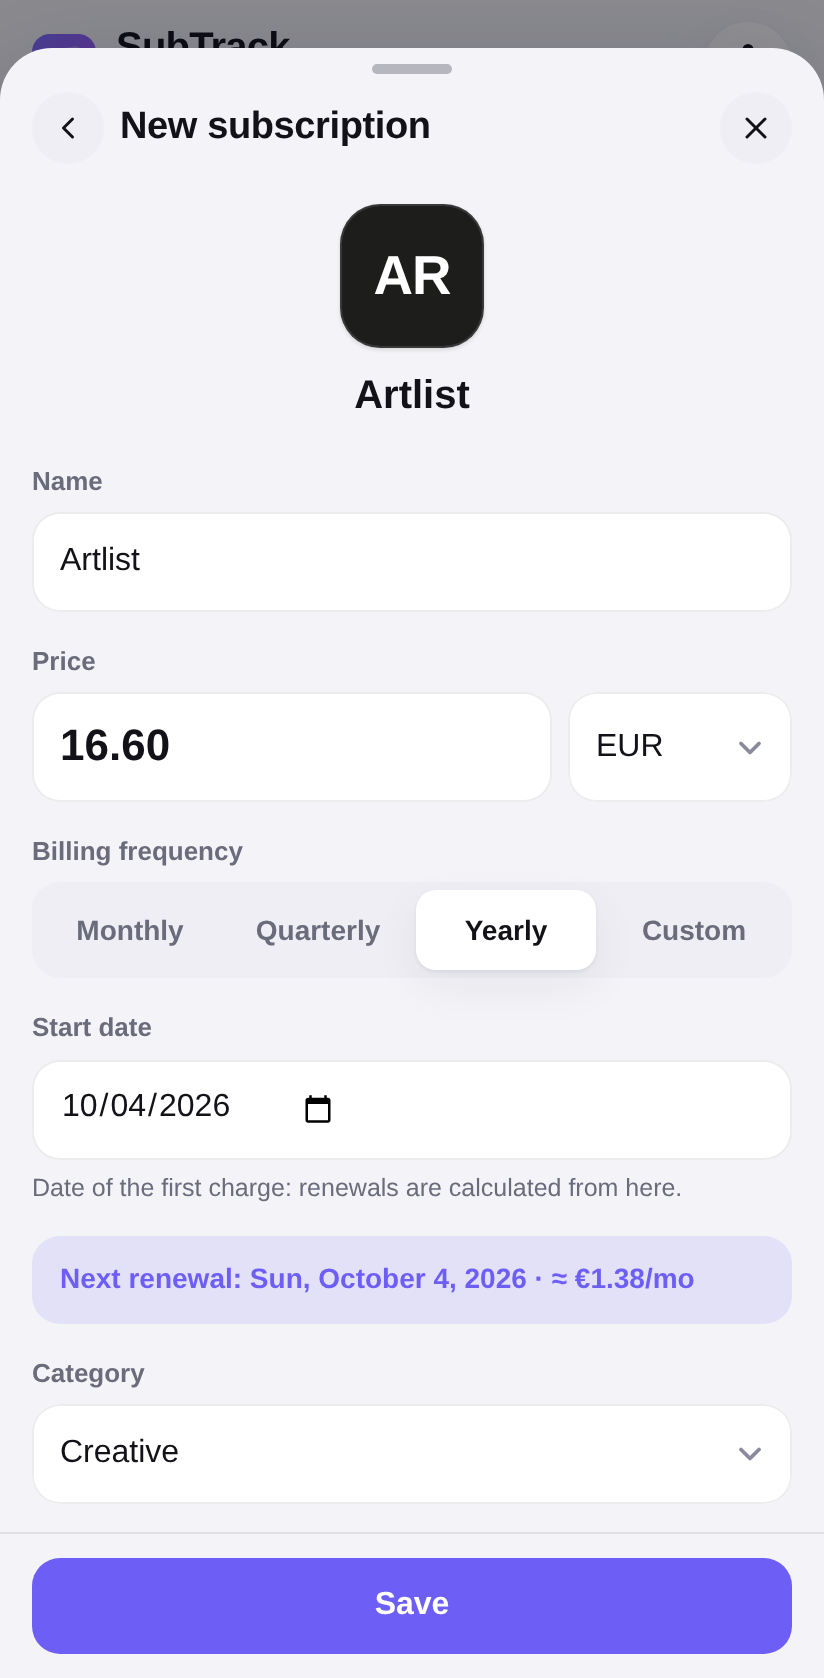
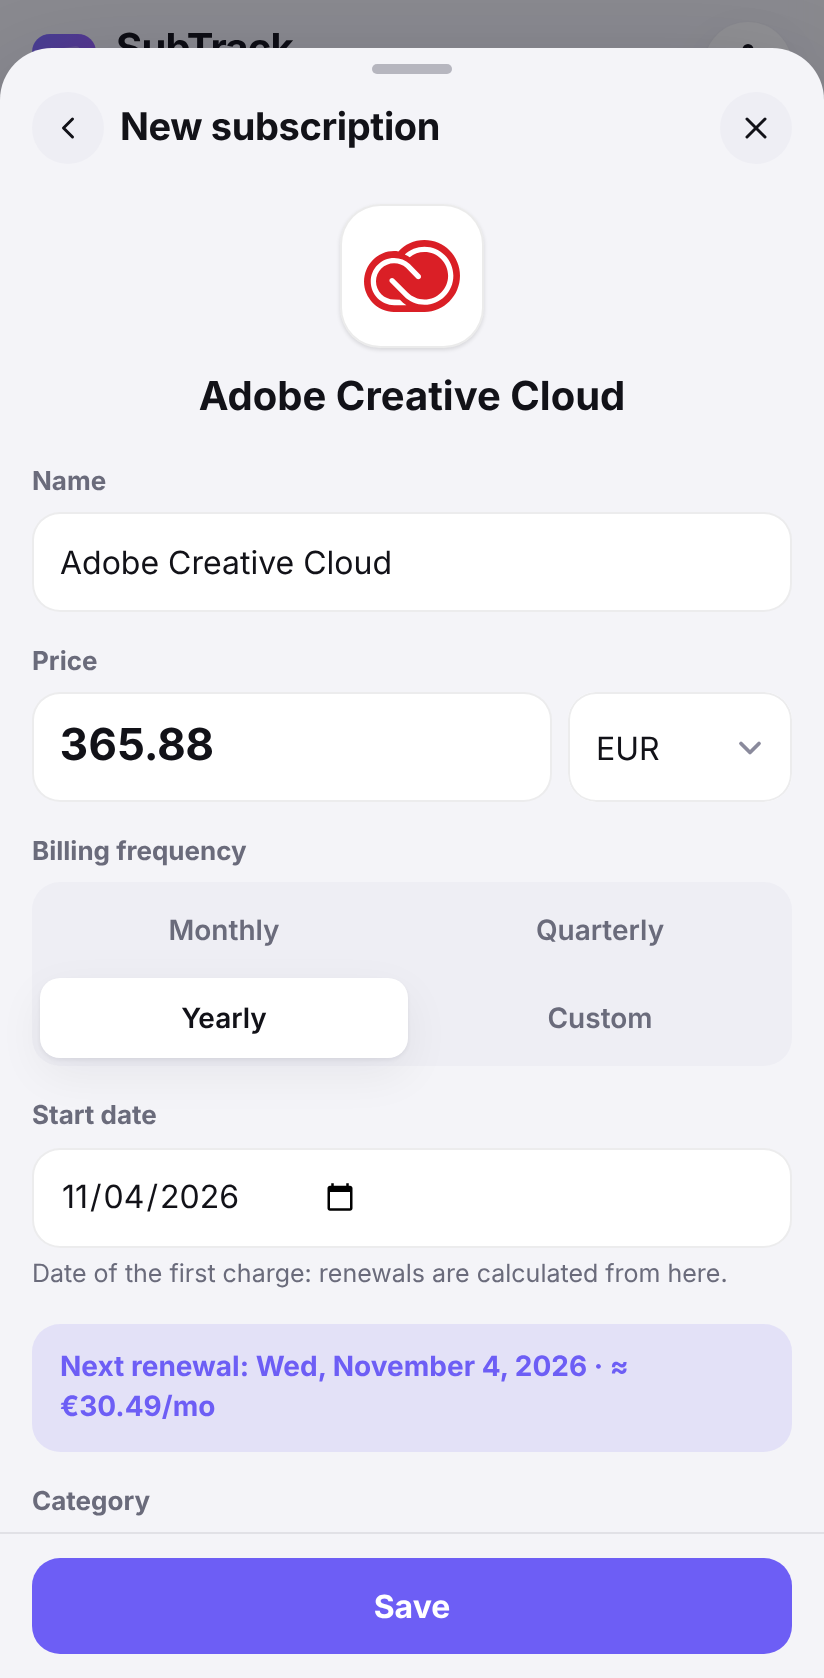
docs: refresh form and settings screenshots, add Italian versions
- form.png now shows a catalogue service with its new brand logo (Adobe
  Creative Cloud) and the current two-row frequency selector.
- settings.png is retaken on the current version.
- README.it gets the same pair in Italian (docs/screenshots/it/), with
  Italian date and number formats.

Claude-Session: https://claude.ai/code/session_01Mdn3BHeJ9s2a8wKKXwo2u2

diff --git a/README.it.md b/README.it.md
@@ -34,6 +34,11 @@
 - **Backup**: export e import dei dati in JSON. L'eliminazione si può annullare.
 - **Zero dipendenze, zero build**: HTML, CSS e JavaScript puri.
 
+<div align="center">
+<img src="docs/screenshots/it/form.png" alt="Modulo nuovo abbonamento" width="240">
+<img src="docs/screenshots/it/settings.png" alt="Impostazioni" width="240">
+</div>
+
 ## Avvio rapido
 
 Serve un qualsiasi web server statico. Per lo sviluppo locale: [Node.js](https://nodejs.org) ≥ 20 (facoltativo, solo per il server di sviluppo e i test).
